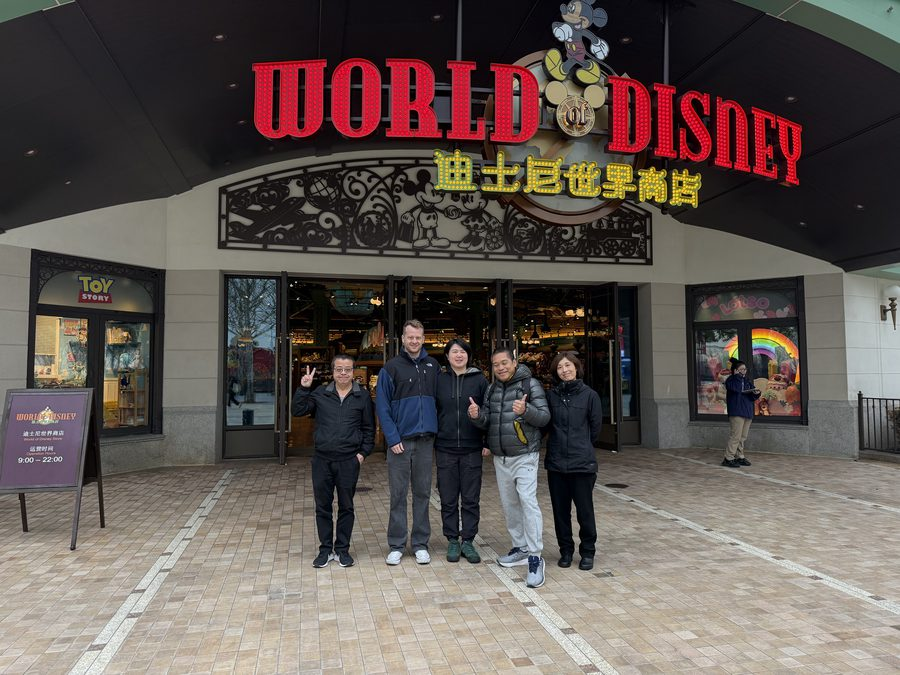
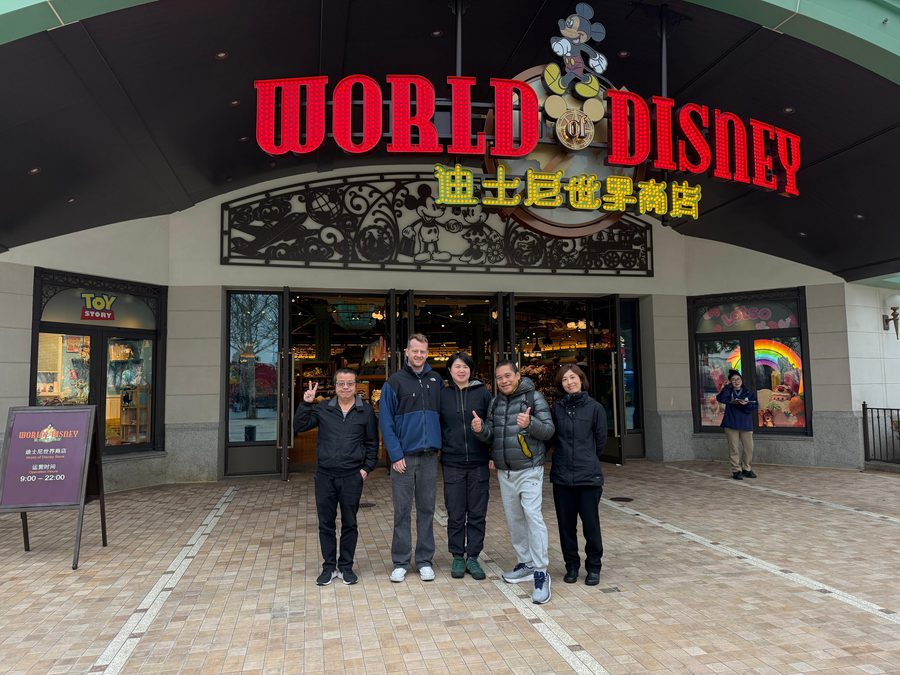
Three CAD renders in Capabilities, and a new storefront photograph
The renders arrived nearly square on a light CAD ground, so each is
padded out to 3:2 to fill the slide. The ground is a pure vertical
gradient, so the pad takes each row's own ground colour and extends it
sideways: seamless. Two other approaches were tried first and both left a
visible band — stretching the edge column ignored the horizontal falloff
and picked up a strip of CAD chrome, and a blurred cover fill showed its
own seam.

The About block's storefront photograph is replaced with the new one.

diff --git a/index.html b/index.html
@@ -288,11 +288,29 @@
             <img src="assets/img/facility/02-moulding-floor.jpg" width="900" height="584"
                  alt="The injection moulding floor" loading="lazy" decoding="async">
           </figure>
+          <figure class="media fade__item">
+            <img src="assets/img/facility/03-render-housing.jpg" width="1400" height="933"
+                 alt="3D model of a display housing" loading="lazy" decoding="async">
+          </figure>
+          <figure class="media fade__item">
+            <img src="assets/img/facility/04-render-luminaire-a.jpg" width="1400" height="934"
+                 alt="3D model of a luminaire assembly" loading="lazy" decoding="async">
+          </figure>
+          <figure class="media fade__item">
+            <img src="assets/img/facility/05-render-luminaire-b.jpg" width="1400" height="933"
+                 alt="3D model of a luminaire assembly, second view" loading="lazy" decoding="async">
+          </figure>
           <div class="fade__dots">
-          <button class="fade__dot is-on" type="button"
-                  data-i="0" aria-label="Photo 1 of 2"></button>
-          <button class="fade__dot" type="button"
-                  data-i="1" aria-label="Photo 2 of 2"></button>
+            <button class="fade__dot is-on" type="button"
+                    data-i="0" aria-label="Photo 1 of 5"></button>
+            <button class="fade__dot" type="button"
+                    data-i="1" aria-label="Photo 2 of 5"></button>
+            <button class="fade__dot" type="button"
+                    data-i="2" aria-label="Photo 3 of 5"></button>
+            <button class="fade__dot" type="button"
+                    data-i="3" aria-label="Photo 4 of 5"></button>
+            <button class="fade__dot" type="button"
+                    data-i="4" aria-label="Photo 5 of 5"></button>
           </div>
         </div>
       </div>
